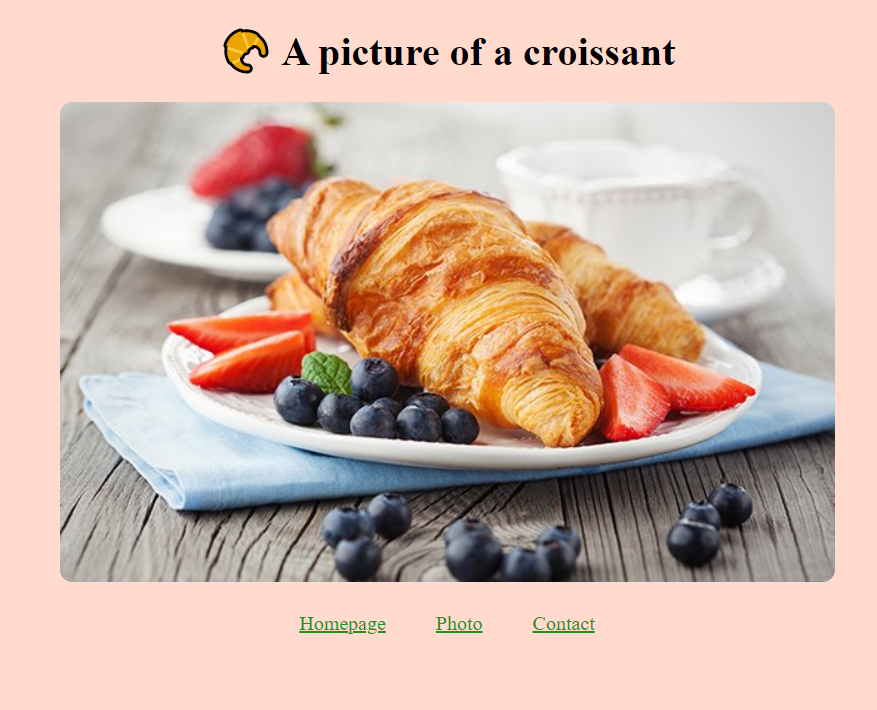
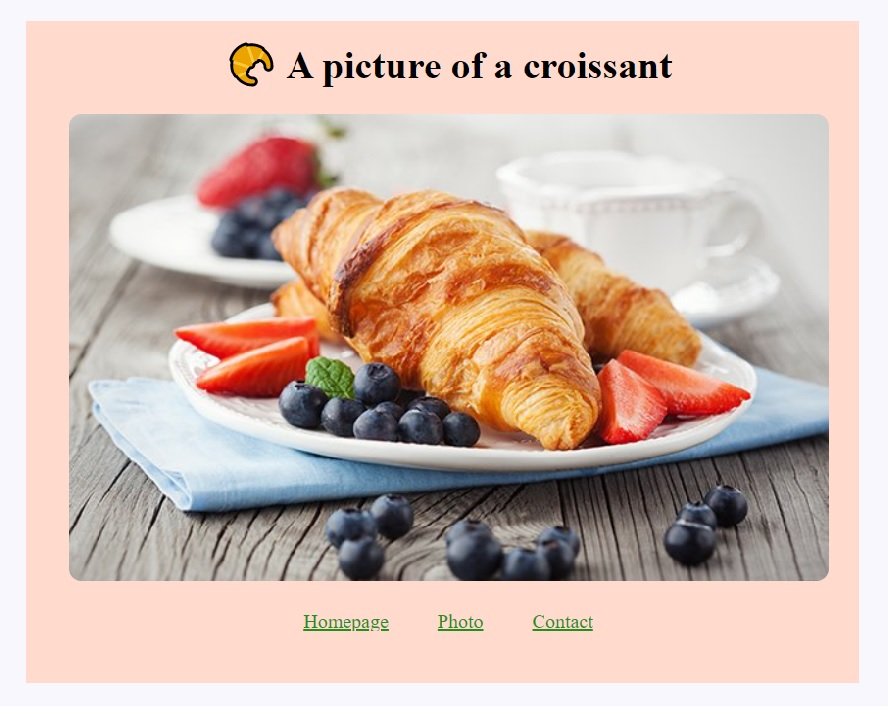
Added works page and changed images

diff --git a/works.html b/works.html
@@ -1,0 +1,73 @@
+<!DOCTYPE html>
+<html lang="en">
+  <head>
+    <meta charset="UTF-8" />
+    <meta http-equiv="X-UA-Compatible" content="IE=edge" />
+    <meta name="viewport" content="width=device-width, initial-scale=1.0" />
+    <link
+      href="https://cdn.jsdelivr.net/npm/bootstrap@5.2.0/dist/css/bootstrap.min.css"
+      rel="stylesheet"
+      integrity="sha384-gH2yIJqKdNHPEq0n4Mqa/HGKIhSkIHeL5AyhkYV8i59U5AR6csBvApHHNl/vI1Bx"
+      crossorigin="anonymous"
+    />
+    <script
+      src="https://cdn.jsdelivr.net/npm/bootstrap@5.2.0/dist/js/bootstrap.bundle.min.js"
+      integrity="sha384-A3rJD856KowSb7dwlZdYEkO39Gagi7vIsF0jrRAoQmDKKtQBHUuLZ9AsSv4jD4Xa"
+      crossorigin="anonymous"
+    ></script>
+    <link rel="preconnect" href="https://fonts.googleapis.com" />
+    <link rel="preconnect" href="https://fonts.gstatic.com" crossorigin />
+    <link
+      href="https://fonts.googleapis.com/css2?family=Playfair+Display:wght@500;700&family=Poppins:ital,wght@0,300;0,500;0,700;1,400&display=swap"
+      rel="stylesheet"
+    />
+    <script
+      src="https://kit.fontawesome.com/803d1e97ca.js"
+      crossorigin="anonymous"
+    ></script>
+    <link rel="stylesheet" href="styles/style.css" />
+    <title>Document</title>
+  </head>
+  <body>
+    <div class="about-section">
+      <h1 class="text-center mb-5">
+        Take a look at what I've been working on!
+      </h1>
+      <div class="container">
+        <div class="row">
+          <div class="col-md-6 mb-4">
+            <img
+              src="images/tales.png"
+              alt="Fairytales foto"
+              class="img-fluid img-thumbnail"
+            />
+            <h2 class="text-center mt-4">Fairytale Project</h2>
+            <p class="text-center mb-4 text-muted">Built with HTML and CSS</p>
+          </div>
+          <div class="col-md-6 mb-4">
+            <img
+              src="images/weather.png"
+              alt="Weather App foto"
+              class="img-fluid img-thumbnail"
+            />
+            <h2 class="text-center mt-4">Weather app</h2>
+            <p class="text-center mb-4 text-muted">
+              Built with HTML, CSS and JavaScript
+            </p>
+          </div>
+          <div class="col-3"></div>
+          <div class="col-md-6 mb-4">
+            <img
+              src="images/Croissant.png"
+              alt="Croissant foto"
+              class="img-fluid img-thumbnail"
+            />
+            <h2 class="text-center mt-4">Croissant Project</h2>
+            <p class="text-center mb-4 text-muted">Built with HTML and CSS</p>
+          </div>
+          <div class="col-3"></div>
+        </div>
+      </div>
+    </div>
+  </body>
+</html>

diff --git a/styles/style.css b/styles/style.css
@@ -52,7 +52,7 @@ img {
   border-radius: 10px;
 }
 .description {
-  margin: 100px 30px;
+  margin: 60px 30px;
 }
 .about-section {
   padding: 160px 0;
@@ -60,6 +60,11 @@ img {
 .about-section h1 {
   font-size: 64px;
   line-height: 1.3;
+}
+.about-section h2 {
+  font-family: var(--default-font);
+  font-size: 24px;
+  font-weight: 700;
 }
 .about-section h3 {
   color: #272142;
@@ -88,6 +93,10 @@ img {
     text-align: center;
     padding: 0;
     margin: 30px 20px;
+  }
+  .about-section h1 {
+    font-size: 48px;
+  }
   .hero {
     padding: 80px 0;
   }
